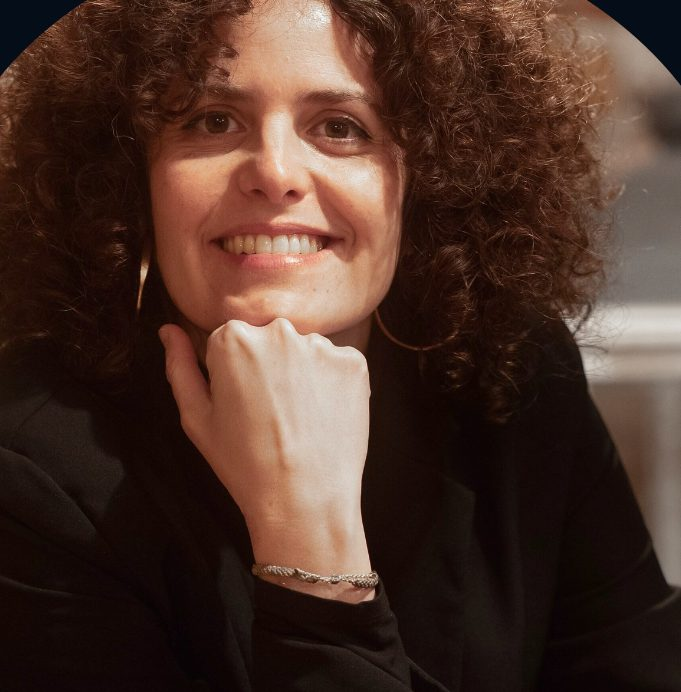
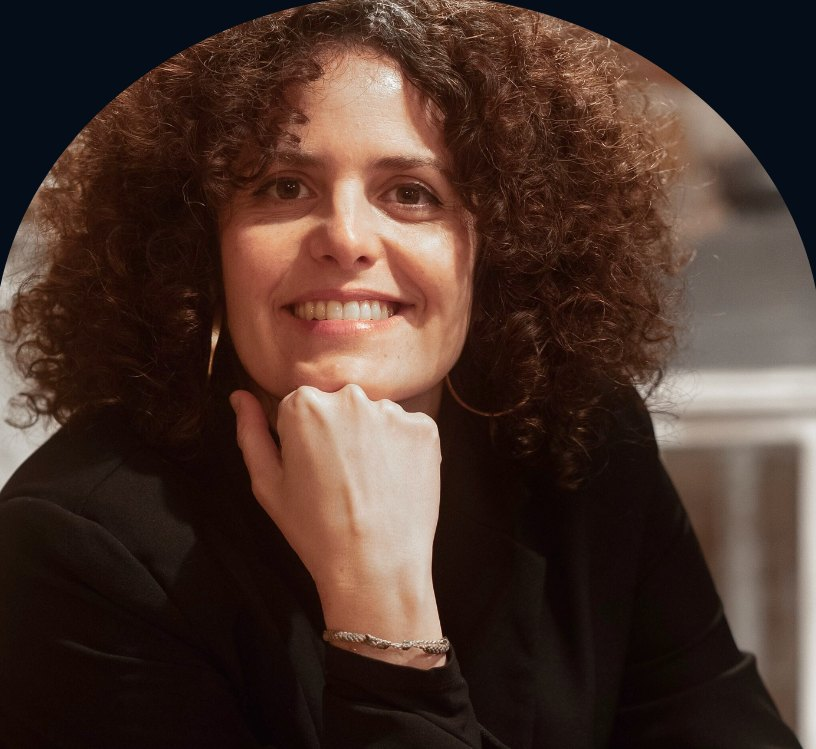
Retrato de Inma con encuadre abierto, como en su web
Claude-Session: https://claude.ai/code/session_019MCPdzBCt6rfzAubgXRcPZ

diff --git a/index.html b/index.html
@@ -184,8 +184,8 @@ header.open .menu-btn .bars::after{top:0;transform:rotate(-45deg)}
 /* About */
 .about{background:var(--cream)}
 .about-grid{display:grid;grid-template-columns:.85fr 1.15fr;gap:72px;align-items:center}
-.arch{border-radius:999px 999px var(--radius) var(--radius);overflow:hidden;aspect-ratio:4/5;background:var(--night);max-width:440px}
-.arch img{width:100%;height:100%;object-fit:cover;object-position:50% 25%}
+.arch{border-radius:50% 50% var(--radius) var(--radius)/46% 46% var(--radius) var(--radius);overflow:hidden;aspect-ratio:816/749;background:var(--night);max-width:440px}
+.arch img{width:100%;height:100%;object-fit:cover;object-position:50% 0}
 .creds{list-style:none;padding:24px 0 0;margin:26px 0 0;display:grid;gap:12px;border-top:1px solid var(--line)}
 .creds li{padding-left:28px;position:relative;color:var(--ink-2)}
 .creds li::before{content:"✦";position:absolute;left:0;color:var(--gold-ink)}
@@ -353,7 +353,7 @@ footer a{display:inline-flex;align-items:center;min-height:44px;color:var(--on-d
 
 <section class="about" id="sobre-mi" aria-labelledby="sobre-mi-h">
   <div class="wrap about-grid">
-    <div class="arch"><img src="img/inma-retrato.jpg" alt="Retrato de Inma Gomes sonriendo" width="681" height="692" loading="lazy"></div>
+    <div class="arch"><img src="img/inma-retrato.jpg" alt="Retrato de Inma Gomes sonriendo" width="816" height="749" loading="lazy"></div>
     <div>
       <p class="eyebrow">Quién soy</p>
       <h2 id="sobre-mi-h">Hola, soy Inma Gomes</h2>
